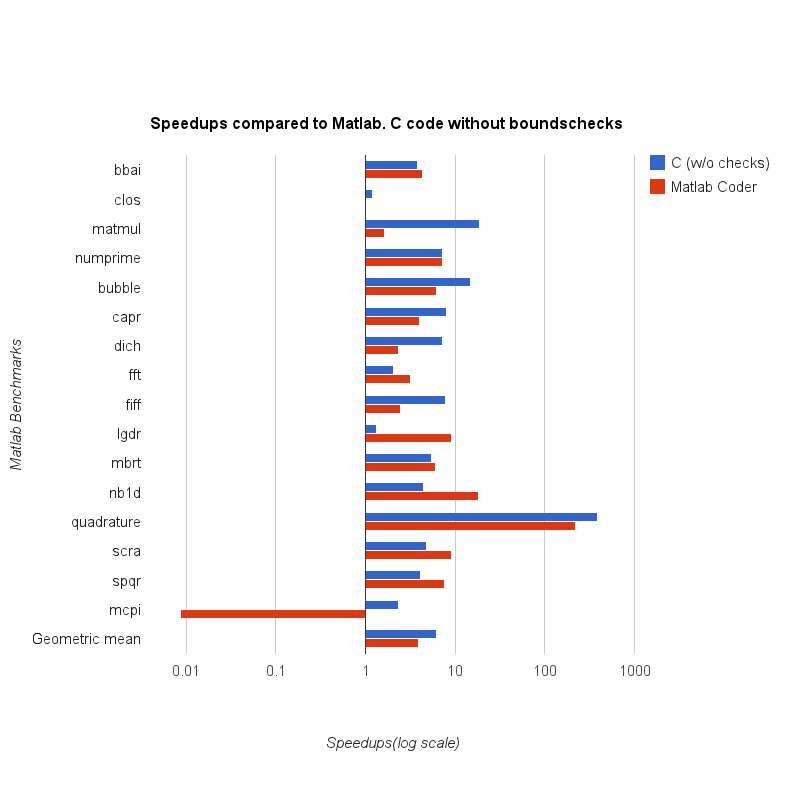
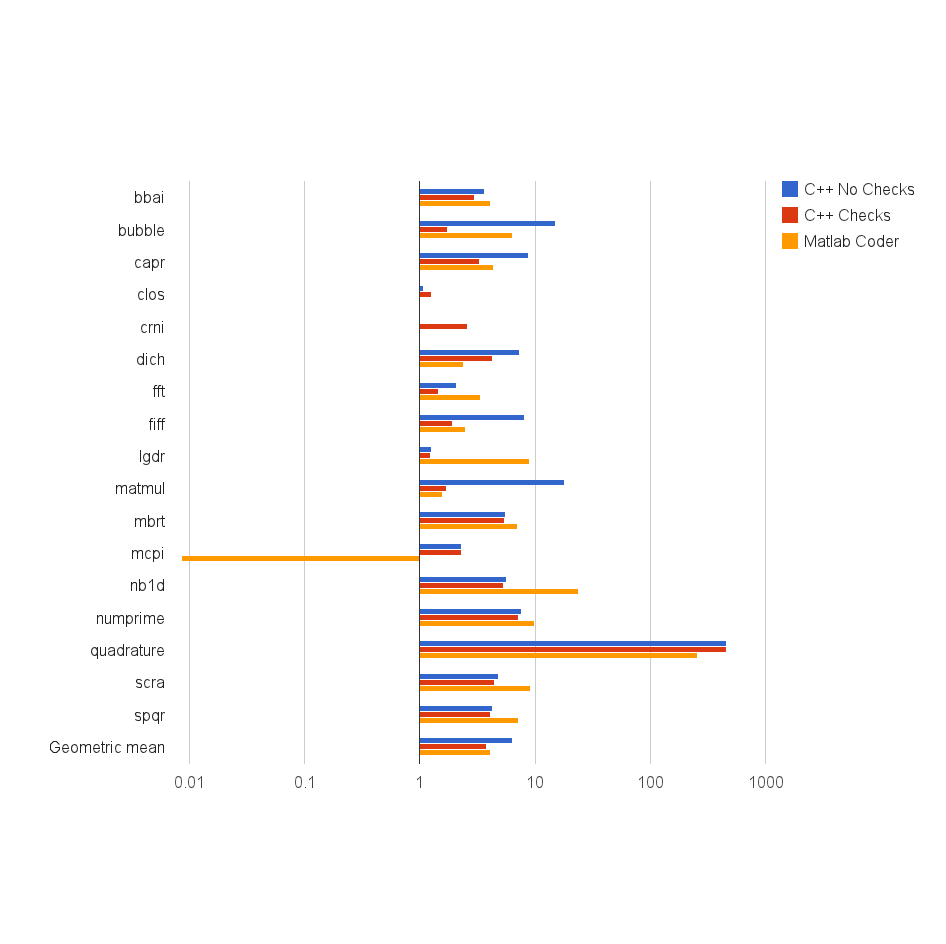
Relaced stuff

diff --git a/text/results.tex b/text/results.tex
@@ -3,15 +3,13 @@ A major goal of the thesis was to improve the performance of array-based languag
 In this chapter, we give a brief description of the benchmarks that were used to test the performance followed by the results themselves and our analysis of these results. 
 \section{Benchmarks}
 The \matlab benchmarks used for the performance were obtained from various sources. The sources include the FALCON project\cite{DeRose:1999} , the OTTER project \cite{quinn}, Chalmers university of technology\footnote{\url{http://www.elmagn.chalmers.se/courses/CEM/}}, Mathworks central file exchange\footnote{\url{http://www.mathworks.com/matlabcentral/fileexchange}} and the presentation on parallel programming in \matlab by Burkhadt and Cliff\footnote{\url{http://people.sc.fsu.edu/~jburkardt/presentations/matlab_parallel.pdf}}. The benchmarks cover commonly occurring \matlab features such as builtin function calls, array indexing including slicing operations and array operations like array addition, matrix multiplication, etc. Table \ref{tab:matBench} gives the list of benchmarks used along with their descriptions and source.  
-% Please add the following required packages to your document preamble:
-% \usepackage{graphicx}
-\begin{table}[h]
+\begin{table}[htbp]
 \resizebox{\columnwidth}{!}{%
 \centering
 \begin{tabular}{|c|c|c|}
 \hline
 Benchmark  & Source               & Description\\
-\hline 
+\hhline{|=|=|=|}
 bbai       & MATLAB file exchange & Implementation of the Babai estimation algorithm \\
 \hline 
 bubl       & McLab                & Bubble Sort \\
@@ -51,11 +49,12 @@ quadrature & Burkardt and Cliff   &  \begin{tabular}{@{} c@{}} Simulates the qua
 \end{table}
 
 Many of the Python are python ports of the Ostrich benchmark suite\cite{Khan:2014:UJW:2661088.2661090}. The benchmarks contain scalar operations as well as array index operation. 6 of the 9 Python benchmarks support parallelism. Table \ref{tab:pyBenches} gives the list of Python benchmarks that were used.    % table for python benchmarks. 
-\begin{table}[h]
+\begin{table}[htbp]
 \centering
 \begin{tabular}{|c|c|c|}
 \hline
-Benchmark Name & Source    & Description                                                                                                                                              \\ \hline
+Benchmark Name & Source    & Description                                                                                                                                              \\ 
+\hhline{|=|=|=|}
 arc\_distance  & PyBenches &                                                                                                                                                          \\ \hline
 fft            & Pydwarfs  & Fast Fourier Transform                                                                                                                                   \\ \hline
 growcut        & PyBenches &  Implementation of GrowCut segmentation                                                                                                                                                         \\ \hline
@@ -74,39 +73,33 @@ srad           & PyDwarfs  & \begin{tabular}[c]{@{}c@{}}Tracks the movement of a
 \section{Experimental Setup}
 We ran separate experiments for \matlab and Python benchmarks. The \matlab benchmarks were executed on the Mathworks' 2014b release of \matlab. We also used the Mathworks' Matlab-coder implementation to compile the benchmarks to C++ converted to a dynamic library similar to the method used by \velocty. In case of the Python benchmarks, we used the reference C-Python interpreter version 3.2.3  and Cython\cite{cython} version 0.21, which is a compiler used to generate C-extensions for Python.
 
-Moreover, different variations of the code generated by \velocty were also tested. These variations include C code without optimisations and without bounds checks, C code with bounds checks but without optimisations, C code with bounds check optimisations, C code with memory optimisations and C code with OpenMP pragmas. The MEX compiler was used to compile the C code generated from \matlab to a shared library that could be called from \matlab. MEX internally uses the gcc-4.6.4 compiler. We use the gcc-4.6.4 compiler through distutils for compiling the C code generated from the Python benchmarks. 
+Moreover, different variations of the code generated by \velocty were also tested. These variations include VeloCty code without optimisations and without bounds checks, C code with bounds checks but without optimisations, VeloCty code with bounds check optimisations, VeloCty code with memory optimisations and VeloCty code with OpenMP pragmas. The MEX compiler was used to compile the VeloCty code generated from \matlab to a shared library that could be called from \matlab. MEX internally uses the gcc-4.6.4 compiler. We use the gcc-4.6.4 compiler through distutils for compiling the VeloCty code generated from the Python benchmarks. 
 
 All the benchmarks were tested on a machine running GNU/Linux(3.8.0-35-generic \#52-Ubuntu) with a Intel(R) Core(TM) i7-3820 CPU @ 3.60GHz with 16GB of memory. 
 \section{Results}
 This section describes the experimental results that were obtained for \matlab and Python.
 \subsection{\matlab Results}
-We ran experiments on 17 \matlab benchmarks. We compared the C backend without bounds checks with the Mathworks' \matlab implementation and \matlab-coder. We measured the speedup of the C backend and the \matlab-coder versions compared to  Mathwork's \matlab.Figure \ref{fig:results_cwochecks} shows a bar graph with the results of the experiment. The red bars show the speedup of \matlab-coder and the blue bars show the speedup of the C backend. The geometric mean for the speedup of the C version was 6.17 as compared to the geometric mean of 3.89 for the \matlab-coder version. The largest speedup was shown by the quadrature benchmark. The benchmark was 318 times faster than Mathworks' \matlab. The benchmark consists of operations on scalar operations and hence gives a high speedup. The smallest speedup of 1.18, is given by the closure benchmark. The benchmark's computationally intensive code section is a while loop containing a matrix multiplication operation. All three versions, the C backend, Mathwork's \matlab and \matlab-coder use the Intel MKL BLAS library and hence show similiar performance. A C version of crni without checks was not generated because the benchmark contains a growing array and hence crashes if bounds checks are not enabled. 
+We ran experiments on 17 \matlab benchmarks. We compared the VeloCty backend without bounds checks with the Mathworks' \matlab implementation and \matlab-coder. We measured the speedup of the VeloCty backend and the \matlab-coder versions compared to  Mathwork's \matlab.Figure \ref{fig:results_cwochecks} shows a bar graph with the results of the experiment. The yellow bars show the speedup of \matlab-coder, the red bars show the speedup of VeloCty backend with array bounds checks enabled and the blue bars show the speedup of the VeloCty backend without the checks.. The geometric mean for the speedup of the VeloCty version was 6.17 as compared to the geometric mean of 3.89 for the \matlab-coder version. The largest speedup was shown by the quadrature benchmark. The benchmark was 318 times faster than Mathworks' \matlab. The benchmark consists of operations on scalar operations and hence gives a high speedup. The smallest speedup of 1.18, is given by the closure benchmark. The benchmark's computationally intensive code section is a while loop containing a matrix multiplication operation. All three versions, the VeloCty backend, Mathwork's \matlab and \matlab-coder use the Intel MKL BLAS library and hence show similiar performance. A VeloCty version of crni without checks was not generated because the benchmark contains a growing array and hence crashes if bounds checks are not enabled. 
 \begin{figure}[htbp]
 \centering
-\includegraphics[scale=0.6]{Figures/results_cwochecks.png}
-\caption{Experimental results for the C backend without checks}
+\includegraphics[scale=0.5]{Figures/results_cwochecks.png}
+\caption{Experimental results for the VeloCty backend without checks}
 \label{fig:results_cwochecks}
 \end{figure}
 
-For most benchmarks, our C backend was faster than \matlab-coder. The benchmarks, bbai, lgdr, nb1d, fft, scra and spqr are execptions. Bbai, scra and spqr showed poorer performance because of memory allocations from array operations performed inside a loop. Performance of these four benchmarks was improved due to the memory optimisation described in Section \ref{sec:memoptimise}. Lgdr and nb1d contain array slicing and array operations which do not internally make calls to the BLAS library and hence take longer to execute compared to \matlab-coder. The fft benchmark contains a loop whose direction can not be identified at run time and hence a loop vector needs to be initialised and iterated over as described in Subsection \ref{subsec:forStmt}. 
+For most benchmarks, our VeloCty backend was faster than \matlab-coder. The benchmarks, bbai, lgdr, nb1d, fft, scra and spqr are execptions. Bbai, scra and spqr showed poorer performance because of memory allocations from array operations performed inside a loop. Performance of these four benchmarks was improved due to the memory optimisation described in Section \ref{sec:memoptimise}. Lgdr and nb1d contain array slicing and array operations which do not internally make calls to the BLAS library and hence take longer to execute compared to \matlab-coder. The fft benchmark contains a loop whose direction can not be identified at run time and hence a loop vector needs to be initialised and iterated over as described in Subsection \ref{subsec:forStmt}. 
 
 As we can also observe \matlab-coder is shows a positive speedup on all benchmarks except for mcpi. The reason for this is that the benchmark contains a loop with random function calls inside the body. These functions return a single scalar value. However, in case of \matlab-coder, an 1x1 matrix is returned. Since a heap allocation is needed for every iteration, the benchmark is significantly slower than Mathworks' \matlab. 
 
-When comparing the execution times of the C backend with and without bounds checks, we observed that the execution times of benchmarks containing array slicing or array operations were not affected by turning the checks on. On the other hand, benchmarks consisting of simple indexing operations show a larger slowdown when array bounds checks were turned on. Figure \ref{fig:results_cwchecks} gives the execution times of the \matlab benchmarks for the C backend with and without bounds checks. As we can see, 6 of the 17 benchmarks show a slow down when bounds check are added. The benchmarks include fft, fiff, matmul, bubble, capr and dich.
+When comparing the execution times of the VeloCty backend with and without bounds checks, we observed that the execution times of benchmarks containing array slicing or array operations were not affected by turning the checks on. On the other hand, benchmarks consisting of simple indexing operations show a larger slowdown when array bounds checks were turned on. As we can see, 6 of the 17 benchmarks show a slow down when bounds check are added. The benchmarks include fft, fiff, matmul, bubble, capr and dich. 
 
-\begin{figure}[htbp]
-\centering
-\includegraphics[scale=0.5]{Figures/results_cwchecks.png}
-\caption{Comparison of the execution times of C backends with and without benchmarks. }
-\label{fig:results_cwchecks}
-\end{figure}
- Table \ref{tab:CwovsCw} gives the slowdown of the generated C code when bounds checks are enabled compared to when bounds checks are disabled. The geometric mean of the slowdown for all benchmarks is 1.65. If only the geometric mean of the affected benchmarks are considered, we get a geometric mean of 3.66. The matmul benchmark shows the highest slowdown with 10.44. The slowdown for the crni benchmark cannot be calculated since a version of the generated code with checks disabled cannot be executed. 
+Table \ref{tab:CwovsCw} gives the slowdown of the generated VeloCty code when bounds checks are enabled compared to when bounds checks are disabled. The geometric mean of the slowdown for all benchmarks is 1.65. If only the geometric mean of the affected benchmarks are considered, we get a geometric mean of 3.66. The matmul benchmark shows the highest slowdown with 10.44. The slowdown for the crni benchmark cannot be calculated since a version of the generated code with checks disabled cannot be executed. 
 
 \begin{table}[htbp]
 \centering
 \begin{tabular}{|c|c|}
 \hline
-Benchmarks                           & Slowdown     \\ \hline
+Benchmarks                           & Slowdown     \\ \hhline{|=|=|}
 bbai                                 & 1.210019268  \\ \hline
 bubble                               & 8.613793103  \\ \hline
 capr                                 & 2.62406015   \\ \hline
@@ -127,15 +120,15 @@ spqr                                 & 1.037181996  \\ \hline
 Geometric mean                       & 1.657669836  \\ \hline
 Geometric mean (Affected Benchmarks) & 3.661753813  \\ \hline
 \end{tabular}
-\caption{Slowdown of the Generated C Code when Bounds Checks are enable compared to when Bounds Checks are disabled}
+\caption{Slowdown of the Generated VeloCty Code when Bounds Checks are enable compared to when Bounds Checks are disabled}
 \label{tab:CwovsCw}
 \end{table}
-In order to determine the improvement in performance when bounds check optimisations were enabled, we compared the slowdown of the generated C code with checks enabled  and the slowdown of the generated code with the bounds check optimisation enabled against the generated C code without checks. Table \ref{tab:CwvsCbc} gives the slowdowns for all the benchmarks. The geometric mean of slowdown with the optimisation enabled is 1.01. Thus the version of the generated code with optimisations enabled is as fast as the version without checks. 
+In order to determine the improvement in performance when bounds check optimisations were enabled, we compared the slowdown of the generated VeloCty code with checks enabled  and the slowdown of the generated code with the bounds check optimisation enabled against the generated VeloCty code without checks. Table \ref{tab:CwvsCbc} gives the slowdowns for all the benchmarks. The geometric mean of slowdown with the optimisation enabled is 1.01. Thus the version of the generated code with optimisations enabled is as fast as the version without checks. 
 \begin{table}[htbp]
 \centering
 \begin{tabular}{|c|c|c|}
 \hline
-Benchmarks                           & C with checks & C with optimisation \\ \hline
+Benchmarks                           & VeloCty with checks & VeloCty with optimisation \\ \hhline{|=|=|=|}
 bbai                                 & 1.210019268   & 1.134874759         \\ \hline
 bubble                               & 8.613793103   & 1.006896552         \\ \hline
 capr                                 & 2.62406015    & 0.7218045113        \\ \hline
@@ -156,16 +149,16 @@ spqr                                 & 1.037181996   & 1.084148728         \\ \h
 Geometric mean                       & 1.657669836   & 1.014442695         \\ \hline
 Geometric mean (Affected Benchmarks) & 3.661753813   & 0.9992501872        \\ \hline
 \end{tabular}
-\caption{Slowdown of generated C code with checks and generated C code with bounds check optimisation. }
+\caption{Slowdown of generated VeloCty code with checks and generated VeloCty code with bounds check optimisation. }
 \label{tab:CwvsCbc}
 \end{table}
 
-The performance improvement of the generated code when the memory optimisations were enabled was also gauged. We calculated the speedups of the generated C code with memory optimisations enabled compared to the generated C code without checks for all the benchmarks. Table \ref{tab:cmvscwo} gives the speedups for the benchmarks. The geometric mean of the speedups for all benchmarks is 1.14. Four benchmarks, capr, scra, spqr and nb1d showed speedups of 1.4, 3.24, 2.67 and 1.51 respectively. The geometric mean of the four affected benchmarks is 2.36. 
+The performance improvement of the generated code when the memory optimisations were enabled was also gauged. We calculated the speedups of the generated VeloCty code with memory optimisations enabled compared to the generated VeloCty code without checks for all the benchmarks. Table \ref{tab:cmvscwo} gives the speedups for the benchmarks. The geometric mean of the speedups for all benchmarks is 1.14. Four benchmarks, capr, scra, spqr and nb1d showed speedups of 1.4, 3.24, 2.67 and 1.51 respectively. The geometric mean of the four affected benchmarks is 2.36. 
 \begin{table}[htbp]
 \centering
 \begin{tabular}{|c|c|}
 \hline
-Benchmarks                           & C with memory optimisation \\ \hline
+Benchmarks                           & VeloCty with memory optimisation \\ \hhline{|=|=|}
 bbai                                 & 0.9980769231               \\ \hline
 bubble                               & 1.013986014                \\ \hline
 capr                                 & 1.4                        \\ \hline
@@ -186,16 +179,16 @@ spqr                                 & 2.67539267                 \\ \hline
 Geometric mean                       & 1.142948856                \\ \hline
 Geometric mean (Affected Benchmarks) & 2.362507726                \\ \hline
 \end{tabular}
-\caption{Speedups of Generated C code with Memory Optimisations}
+\caption{Speedups of Generated VeloCty code with Memory Optimisations}
 \label{tab:cmvscwo}
 \end{table}
 
-Three of the \matlab benchmarks, nb1d, matmul and mbrt can be executed in parallel. We calculated the speedups of the three benchmarks in parallel compared to the C version without checks. Table \ref{tab:cpvscwo} gives the speedups for the three benchmarks. The matmul and mbrt benchmarks show significant speedups. This is because in the case of the the two benchmarks, a very small portion of the code needs to be executed sequentially. Moreover, parallel portion of the code is computationally intensive thus making the thread management time a small portion of the total execution time. On the other hand, the nb1d benchmark shows no speedup. This can be attributed to the fact that the loop being parallelised is nested inside another loop executing sequentially. Moreover, the loop being executed in parallel in not computationally intensive and hence the benchmark does not benefit from parallel execution. 
+Three of the \matlab benchmarks, nb1d, matmul and mbrt can be executed in parallel. We calculated the speedups of the three benchmarks in parallel compared to the VeloCty version without checks. Table \ref{tab:cpvscwo} gives the speedups for the three benchmarks. The matmul and mbrt benchmarks show significant speedups. This is because in the case of the the two benchmarks, a very small portion of the code needs to be executed sequentially. Moreover, parallel portion of the code is computationally intensive thus making the thread management time a small portion of the total execution time. On the other hand, the nb1d benchmark shows no speedup. This can be attributed to the fact that the loop being parallelised is nested inside another loop executing sequentially. Moreover, the loop being executed in parallel in not computationally intensive and hence the benchmark does not benefit from parallel execution. 
 \begin{table}[htbp]
 \centering
 \begin{tabular}{|c|c|}
 \hline
-Benchmark & Speedup \\ \hline
+Benchmark & Speedup \\ \hhline{|=|=|}
 matmul    & 4.75    \\ \hline
 mbrt      & 3.19    \\ \hline
 nb1d      & 0.96    \\ \hline
@@ -204,17 +197,134 @@ nb1d      & 0.96    \\ \hline
 \label{tab:cpvscwo}
 \end{table}
 
-We also calculated the speedup of the generated C code with all optimisations enabled compared to the generated C code without checks. The geometric mean of the speedup compared to the C code without checks is 1.19. The maximum speedup compared to that of  2.32 is given by the matmul benchmark. Not all benchmarks show significant speedups. The performance of such of benchmarks can be improved by optimising the builtin implementations provided by the runtime library.
+We also calculated the speedup of the generated VeloCty code with all optimisations enabled compared to the generated VeloCty code without checks. The geometric mean of the speedup compared to the VeloCty code without checks is 1.28. The maximum speedup compared to that of  3.16 is given by the matmul benchmark. Not all benchmarks show significant speedups. The performance of such of benchmarks can be improved by optimising the builtin implementations provided by the runtime library.
 
-We observed higher speedups of the generated C code with all optimisations enabled compared to the generated C code with checks enabled. This is because the bounds check optimisation improves peformance of the benchmarks compared to the benchmark versions when the checks are enabled. The geometric mean of the speedup is 2.74. The highest speedup of 24.24 is observed for the matmul benchmark. The matmul benchmark benefits from the boundscheck optimisation as well as parallel code generation. Table %insert ref
-shows the speedups for the generated C code with all optimisations enabled compared to both the C code with checks and without checks. 
+We observed higher speedups of the generated VeloCty code with all optimisations enabled compared to the generated VeloCty code with checks enabled. This is because the bounds check optimisation improves peformance of the benchmarks compared to the benchmark versions when the checks are enabled. The geometric mean of the speedup is 2.15. The highest speedup of 24.24 is observed for the matmul benchmark. The matmul benchmark benefits from the boundscheck optimisation as well as parallel code generation. Table \ref{tab:covscwcwo} shows the speedups for the generated VeloCty code with all optimisations enabled compared to both the VeloCty code with checks and without checks. 
+\begin{table}[htbp]
+\centering
+\begin{tabular}{|c|c|c|}
+\hline
+\multirow{2}{*}{Benchmarks} & \multicolumn{2}{c|}{Speedups}                                                                                                                                \\ \cline{2-3} 
+                            & \begin{tabular}[c]{@{}c@{}}compared to VeloCty backend\\ without Checks\end{tabular} & \begin{tabular}[c]{@{}c@{}}Compared to VeloCty backend\\ with Checks\end{tabular} \\ \hhline{|=|=|=|}
+bbai                        & 1.023668639                                                                    & 1.238658777                                                                 \\ \hline
+bubble                      & 0.9666666667                                                                   & 8.326666667                                                                 \\ \hline
+capr                        & 0.9637681159                                                                   & 2.528985507                                                                 \\ \hline
+clos                        & 1.235323633                                                                    & 1.043151029                                                                 \\ \hline
+crni                        & -                                                                              & 2.523006135                                                                 \\ \hline
+dich                        & 1.028571429                                                                    & 1.760714286                                                                 \\ \hline
+fft                         & 0.6596971882                                                                   & 0.9473684211                                                                \\ \hline
+fiff                        & 0.7252124646                                                                   & 3.011331445                                                                 \\ \hline
+lgdr                        & 1.11048951                                                                     & 1.128671329                                                                 \\ \hline
+matmul                      & 2.32                                                                           & 24.24                                                                       \\ \hline
+mbrt                        & 3.162393162                                                                    & 3.230769231                                                                 \\ \hline
+mcpi                        & 0.9969879518                                                                   & 1                                                                           \\ \hline
+nb1d                        & 1.551612903                                                                    & 1.625806452                                                                 \\ \hline
+numprime                    & 1.03180212                                                                     & 1.09540636                                                                  \\ \hline
+quadrature                  & 1                                                                              & 1                                                                           \\ \hline
+scra                        & 2.775757576                                                                    & 3.048484848                                                                 \\ \hline
+spqr                        & 2.647668394                                                                    & 2.74611399                                                                  \\ \hline
+Geometric mean              & 1.28520656                                                                     & 2.151747961                                                                 \\ \hline
+\end{tabular}
+\caption{Speedup of generated VeloCty code with all optimisations enabled compared to VeloCty code without optimisations and with and without bounds checks enabled.}
+\label{tab:covscwcwo}
+\end{table}
 \subsection{Python Results}
-We ran experiments on 9 Python benchmarks. We compared the generated C code without bounds checks to Cython and the CPython interpreter. Figure \ref{fig:results_cwochecks_py} is a bar graph showing the speedup of the generated C code and the Cython code compared to the CPython interpreter. The blue bars indicate the speedup of the generated C code and the red bars indicate the speedup of the Cython code. The geometric mean of the benchmarks was 208.69. The largest speedup of 557.82  was shown by the lud benchmark. The smallest speedup of 47.11 was shown by the fft benchmark. 
-
-The generated C code is faster than the cython code for all the benchmarks. Comparing the speedup of our generated C code to the Cython code, a mean speedup of 2.21 was found. The largest speedup of 14.93 was shown by the fft benchmark. The benchmarks arc\_distance, lud and pagerank take the same time to execute as our generated C code. The arc\_distance benchmark consists primarily builtin function calls on scalar values and hence does not show a difference for both Cython and the generated C code. 
+We ran experiments on 9 Python benchmarks. We compared the generated VeloCty code without bounds checks to Cython and the CPython interpreter. Figure \ref{fig:results_cwochecks_py} is a bar graph showing the speedup of the generated VeloCty code with checks disabled, the generated VeloCty code with checks enabled and the Cython code compared to the CPython interpreter. The blue bars indicate the speedup of the generated VeloCty code without checks, the red bars indicate the speedup of the generated VeloCty code with checks enabled and the yellow bars indicate the speedup of the Cython code. The geometric mean of the speedups for the generated VeloCty code without checks was 208.69. The largest speedup of 557.82  was shown by the lud benchmark. The smallest speedup of 47.11 was shown by the fft benchmark. The geometric mean of the speedups of the generated VeloCty code with the checks enabled was 164.48. The highest speedup of 538.3 was shown by the lud benchmark. The smallest speedup, 43.01 was shown by the fft benchmark. 
 \begin{figure}[htbp]
 \centering
 \includegraphics[scale=0.5]{Figures/results_cwochecks_py.png}
-\caption{Comparison of generated C code with Cython and C-Python interpreter.}
+\caption{Comparison of the speedups of the generated VeloCty code with and without checks and Cython.}
 \label{fig:results_cwochecks_py}
 \end{figure}
+
+The generated VeloCty code without is faster than the Cython code for all the benchmarks. Comparing the speedup of our generated VeloCty code to the Cython code, a mean speedup of 2.21 was found. The largest speedup of 14.93 was shown by the fft benchmark. The benchmarks arc\_distance, lud and pagerank take the same time to execute as our generated C++ code. All three benchmarks have fewer array index operations and more scalar operations compared to the other benchmarks. On the other hand the fft benchmark performs significantly better for the generated VeloCty code than the Cython version. The fft benchmark contains recursive function calls. Cython adds checks to ensure validity of the input arguments of a function as well as validity of the arguments being passed from the function call point. 
+
+Enabling array bounds checks gives a significant slowdown in 4 of the 9 benchmarks. These benchmarks are growcut, pairwise, spmv and srad. Table \ref{tab:cwvscwopy} lists the slowdowns observed for the generated VeloCty versions with checks enabled compared to the generated VeloCty version with checks disabled. The geometric mean of the slowdown is 1.27. The highest slowdown was shown by the pairwise benchmark. Benchmarks which were not affected by array bounds checks enabled were ones which contained loops with fewer loop iterations or with fewer array index operations in their bodies. 
+\begin{table}[htbp]
+\centering
+\begin{tabular}{|c|c|}
+\hline
+Benchmarks     & Slowdown    \\ \hhline{|=|=|}
+arc\_distance  & 1.023523262 \\ \hline
+fft            & 1.095238095 \\ \hline
+growcut        & 1.285714286 \\ \hline
+julia          & 1.012594458 \\ \hline
+lud            & 1.03626943  \\ \hline
+pagerank       & 1.019169329 \\ \hline
+pairwise       & 1.940577998 \\ \hline
+spmv           & 1.734177215 \\ \hline
+srad           & 1.642801633 \\ \hline
+Geometric mean & 1.268792366 \\ \hline
+Geometric mean(Affected Benchmarks)  &  1.63 \\ \hline
+\end{tabular}
+\caption{Slowdown of the Python benchmarks for VeloCty code with checks enabled compared to VeloCty code without checks}
+\label{tab:cwvscwopy}
+\end{table}
+
+We also timed versions of the generated VeloCty code with the bounds check optimisations enabled. We compared the slowdown of the VeloCty code with bounds check optimisations with the VeloCty code without checks and the slowdown of the VeloCty code with checks enabled. Table \ref{tab:cwvscopy} lists slowdowns for all the python benchmarks. The geometric mean of slowdown for the VeloCty code with optimisation is 0.96. That is, the version of VeloCty with bounds check optimisation is as fast the version without checks.
+\begin{table}[htbp]
+\centering
+\begin{tabular}{|c|c|c|}
+\hline
+\multirow{2}{*}{Benchmarks} & \multicolumn{2}{c|}{Slowdown}                                                                             \\ \cline{2-3} 
+                            & VeloCty code with checks & \begin{tabular}[c]{@{}c@{}}VeloCty code with bounds \\ check optimisation\end{tabular} \\ \hhline{|=|=|=|}
+arc\_distance               & 1.023523262          & 0.9968733715                                                                       \\ \hline
+fft                         & 1.095238095          & 0.9483870968                                                                       \\ \hline
+growcut                     & 1.285714286          & 0.8279569892                                                                       \\ \hline
+julia                       & 1.012594458          & 1.001261034                                                                        \\ \hline
+lud                         & 1.03626943           & 0.9796954315                                                                       \\ \hline
+pagerank                    & 1.019169329          & 0.9968152866                                                                       \\ \hline
+pairwise                    & 1.940577998          & 1.032397408                                                                        \\ \hline
+spmv                        & 1.734177215          & 0.9186046512                                                                       \\ \hline
+srad                        & 1.642801633          & 0.9736842105                                                                       \\ \hline
+Geometric mean              & 1.268792366          & 0.9621734128                                                                       \\ \hline
+\end{tabular}
+\caption{Slowdown of VeloCty with check optimisation and VeloCty with checks enabled.}
+\label{tab:cwvscopy}
+\end{table}
+
+6 of the 9 benchmarks could be executed in parallel. We calculated the speedups of the VeloCty versions executing in parallel with the VeloCty version without array checks. The geometric mean of the speedups was 3.12. Maximum speedup was observed in the pairwise benchmark. The benchmark showed a speedup of 4.19. The smallest speedup of 2.5  was observed by the srad benchmark. Table \ref{tab:cpvscwopy} gives the speedups for the 6 benchmarks that could be executed in parallel.
+\begin{table}[h]
+\centering
+\begin{tabular}{|c|c|}
+\hline
+Benchmarks     & Speedups    \\ \hhline{|=|=|}
+growcut        & 3.347826087 \\ \hline
+lud            & 2.718309859 \\ \hline
+pagerank       & 3.068627451 \\ \hline
+pairwise       & 4.192982456 \\ \hline
+spmv           & 3.16        \\ \hline
+srad           & 2.5         \\ \hline
+Geometric mean & 3.121471389 \\ \hline
+\end{tabular}
+\caption{Speedups of the VeloCty parallel version compared to the VeloCty version without checks}
+\label{tab:cpvscwopy}
+\end{table}
+\begin{table}[htbp]
+\centering
+\begin{tabular}{|c|c|c|}
+\hline
+\multirow{2}{*}{Benchmarks} & \multicolumn{2}{c|}{Speedups}                \\ \cline{2-3} 
+                            & v/s VeloCty without Checks & v/s VeloCty with Checks \\ \hhline{|=|=|=|}
+arc\_distance               & 1.006312467            & 1.029984219         \\ \hline
+fft                         & 0.8698224852           & 0.9526627219        \\ \hline
+growcut                     & 2.483870968            & 3.193548387         \\ \hline
+julia                       & 0.9887920299           & 1.00124533          \\ \hline
+lud                         & 2.643835616            & 2.739726027         \\ \hline
+pagerank                    & 3.068627451            & 3.12745098          \\ \hline
+pairwise                    & 3.886178862            & 7.54                 \\ \hline
+spmv                        & 2.025641026            & 3.512820513         \\ \hline
+srad                        & 2.151162791            & 3.533933745         \\ \hline
+Geometric mean              & 1.881731624            & 2.38795278          \\ \hline
+\end{tabular}
+\caption{Speedups of VeloCty version with all optimisations compared to VeloCty versions with and without bounds checks}
+\label{tab:copvscwopy}
+\end{table}
+
+Finally, we calculated the speedups of the VeloCty version with all optimisations enabled and compared them to both the VeloCty version without checks and the version with checks. Table \ref{tab:copvscwopy} lists the calculated speedups compared to both the VeloCty version with bounds checks and without bounds checks. The geometric mean of the speedups over the VeloCty version without checks is 1.88. The highest speedup, 3.88 was observed for the pairwise benchmark, whereas the smallest, 0.87 was observed for the fft benchmark. 
+
+In case of the speedups over the VeloCty version with checks enabled, we observed a geometric mean of 2.38. The maximum speedup, 7.54 was observed for the pairwise benchmark and the smallest speedup, 0.95 was observed for the fft benchmark. 
+
+Note that since none of the Python benchmarks contained any array slicing operations or array operations, performance would not differ when the mememory optimisation was used and hence we do not specify those numbers in this subsection. 
+\section{Summary}
+In summary, the VeloCty code with all optimisations enabled generated by \velocty from \matlab is 7.89 times faster than the Mathwork's \matlab. The generated VeloCty code for Python is 391.04 times faster than the C-Python interpreter.  
